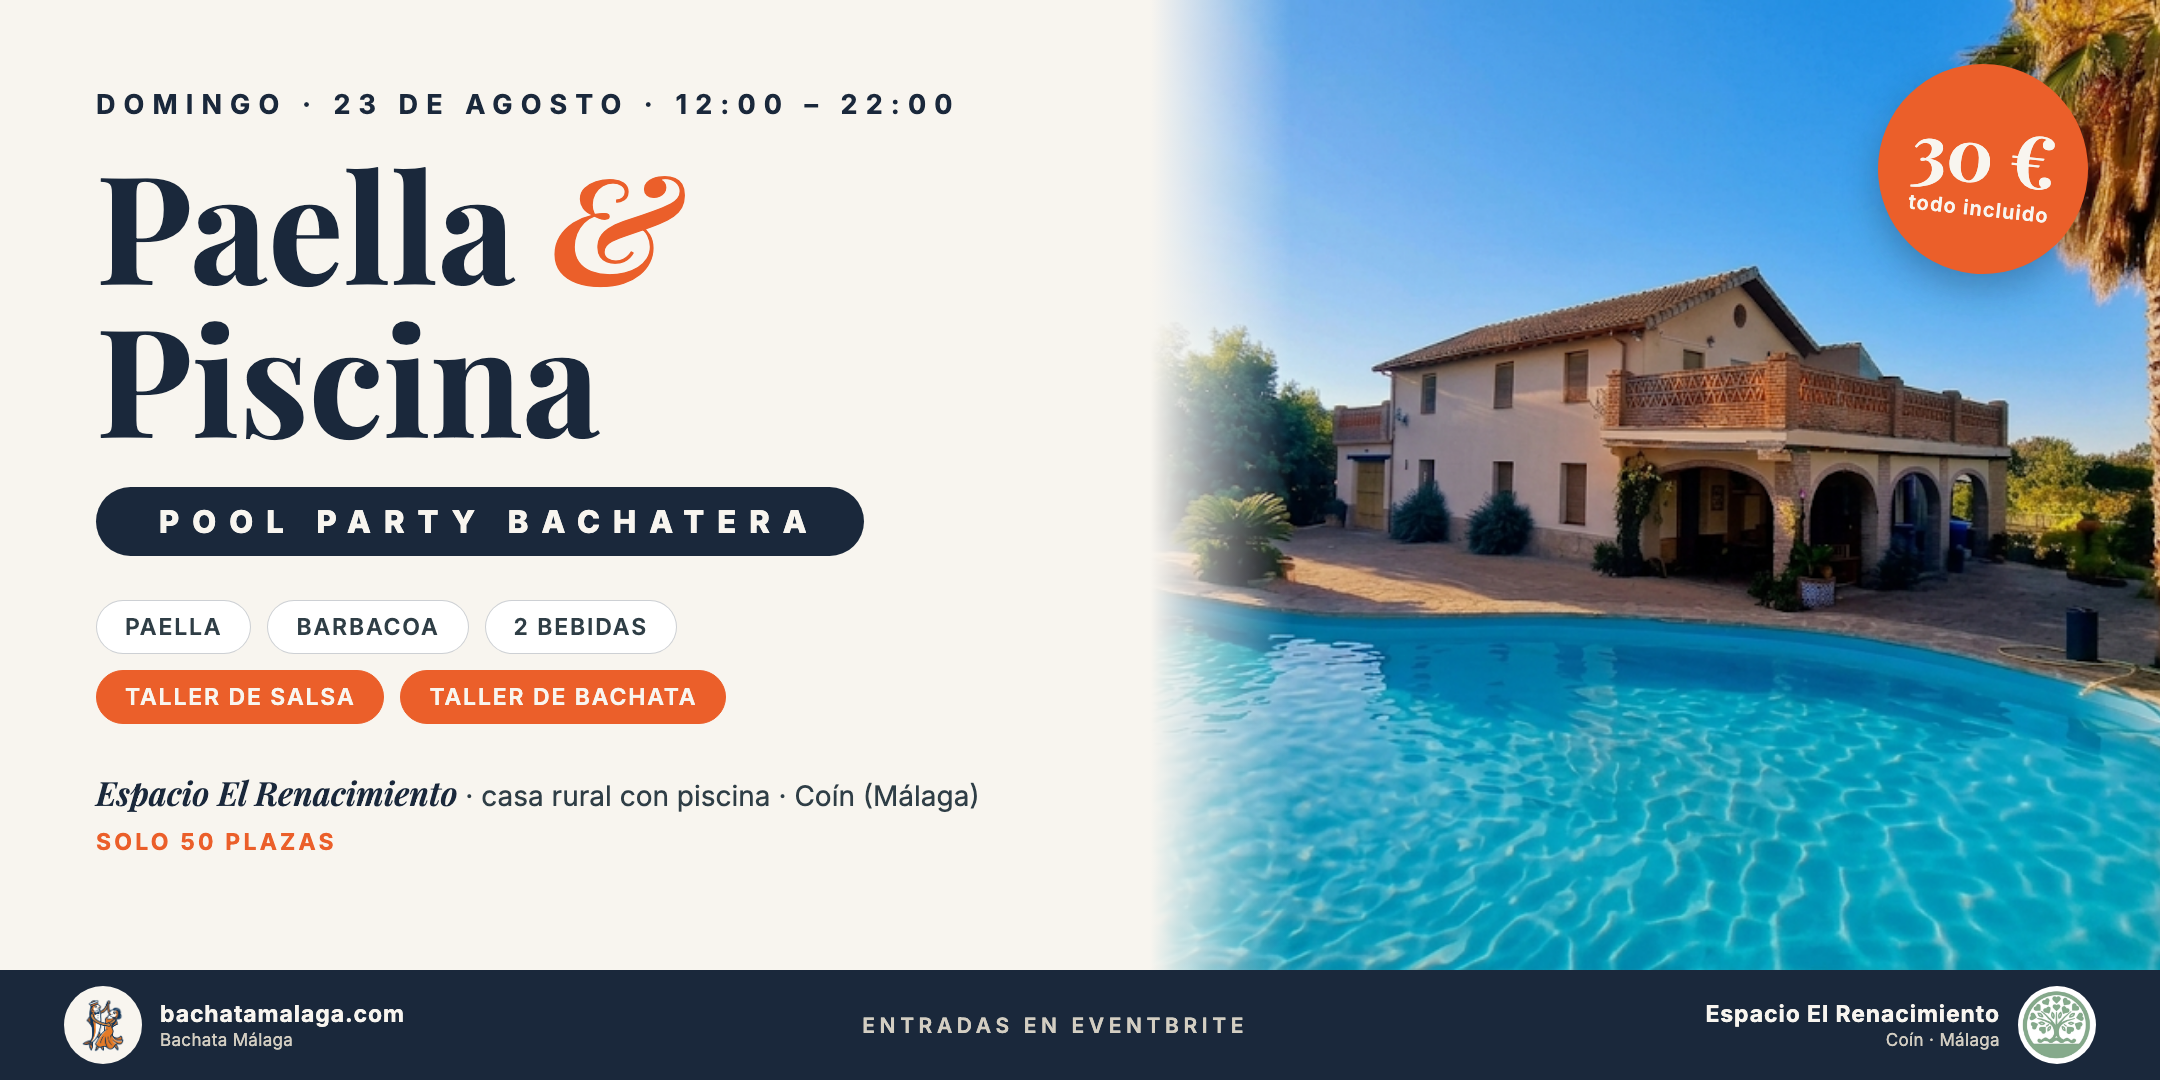
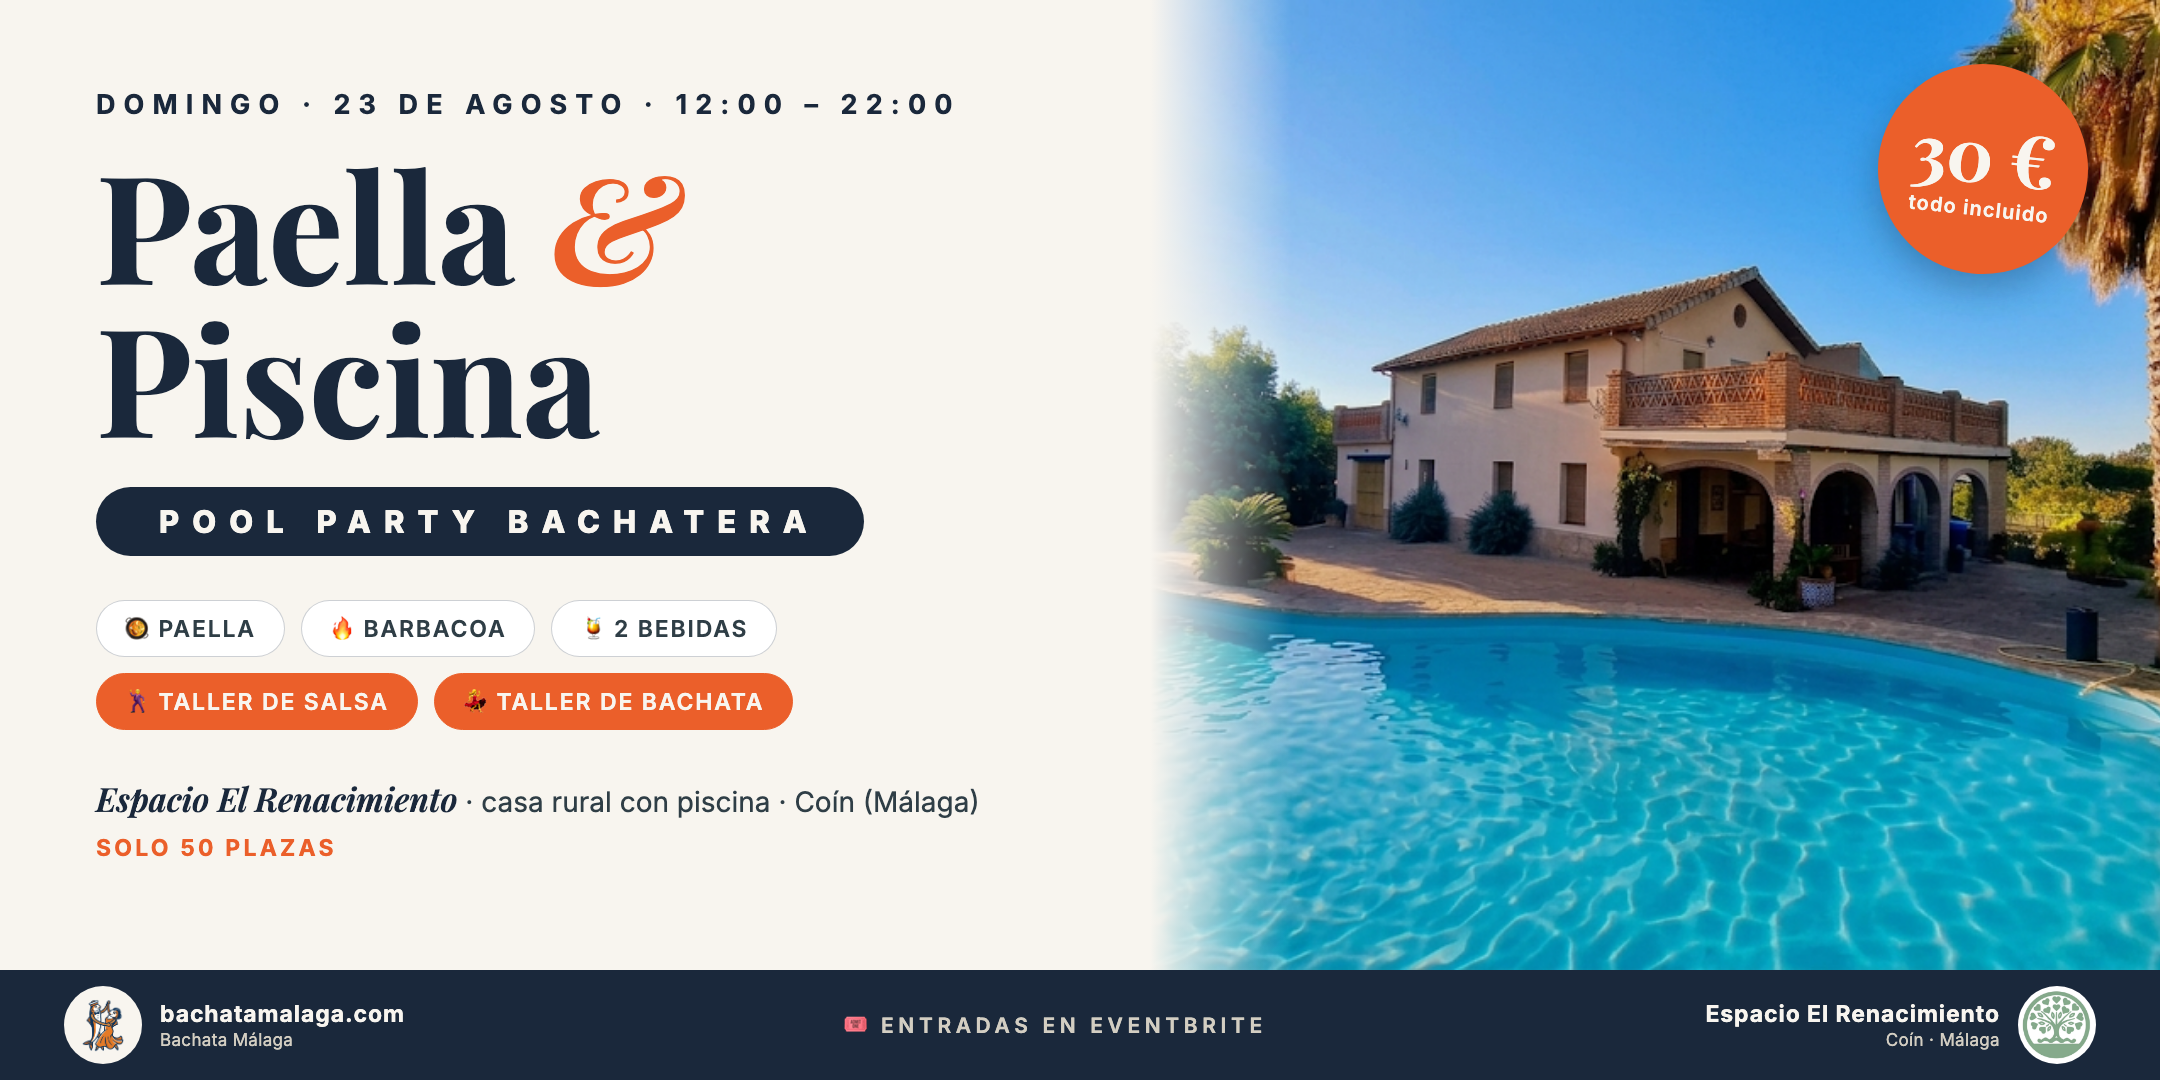
Evento: emojis en textos y cartel OG actualizado

Changed region(s): [[0.031, 0.55, 0.4653, 0.7944], [0.3722, 0.9472, 0.5894, 0.9778]]

diff --git a/evento/index.html b/evento/index.html
@@ -427,10 +427,10 @@
 
         <main class="carta animate delay-3">
             <p>
-                Hola, soy Pedro, un adicto más a la bachata. Hemos reservado una <strong>casa rural con piscina en Coín</strong> para pasar el día: chapuzón, paella rica, barbacoa y la mejor música para el bailoteo. ¿Qué más se puede pedir?
+                Hola, soy Pedro, un adicto más a la bachata 💃. Hemos reservado una <strong>casa rural con piscina en Coín</strong> para pasar el día: chapuzón, paella rica, barbacoa y la mejor música para el bailoteo. ¿Qué más se puede pedir?
             </p>
             <p>
-                El plan es sencillo: llegas a mediodía y <span class="highlight-underline">A PASARLO BIEN HASTA QUE EL CUERPO DÉ</span>. Habrá talleres de salsa y bachata mientras se prepara la comida. El resto del día, libre: piscina, baile, gente y lo que te pida el cuerpo. Dos bebidas van incluidas.
+                El plan es sencillo: llegas a mediodía y <span class="highlight-underline">A PASARLO BIEN HASTA QUE EL CUERPO DÉ</span> 🔥. Habrá talleres de salsa y bachata mientras se prepara la comida 🥘. El resto del día, libre: piscina, baile, gente y lo que te pida el cuerpo. Dos bebidas van incluidas 🍹.
             </p>
 
             <div class="incluye-titulo">Tu entrada incluye</div>
@@ -459,10 +459,10 @@
             </div>
 
             <div class="datos">
-                <div class="dato"><strong>Cuándo</strong> · domingo 23 de agosto, de 12:00 a 22:00</div>
-                <div class="dato"><strong>Talleres</strong> · a las 13:00, salsa y bachata, mientras se hace la comida</div>
-                <div class="dato"><strong>Dónde</strong> · Espacio El Renacimiento, casa rural en Coín (Málaga)</div>
-                <div class="dato"><strong>Qué llevar</strong> · bañador y toalla</div>
+                <div class="dato">📅 <strong>Cuándo</strong> · domingo 23 de agosto, de 12:00 a 22:00</div>
+                <div class="dato">🕺 <strong>Talleres</strong> · a las 13:00, salsa y bachata, mientras se hace la comida</div>
+                <div class="dato">📍 <strong>Dónde</strong> · Espacio El Renacimiento, casa rural en Coín (Málaga)</div>
+                <div class="dato">🎒 <strong>Qué llevar</strong> · bañador y toalla</div>
             </div>
         </main>
 
@@ -475,7 +475,7 @@
                     <path d="M5 12h14M12 5l7 7-7 7"/>
                 </svg>
             </a>
-            <div class="cta-nota">Entradas en Eventbrite. Cuando se acaban, se acaban.</div>
+            <div class="cta-nota">🎟 Entradas en Eventbrite. Cuando se acaban, se acaban.</div>
 
             <div class="botones-secundarios">
                 <a class="boton-sec" href="https://www.google.com/maps/search/?api=1&amp;query=Espacio%20El%20Renacimiento%2C%20Co%C3%ADn%2C%20M%C3%A1laga" target="_blank" rel="noopener">
